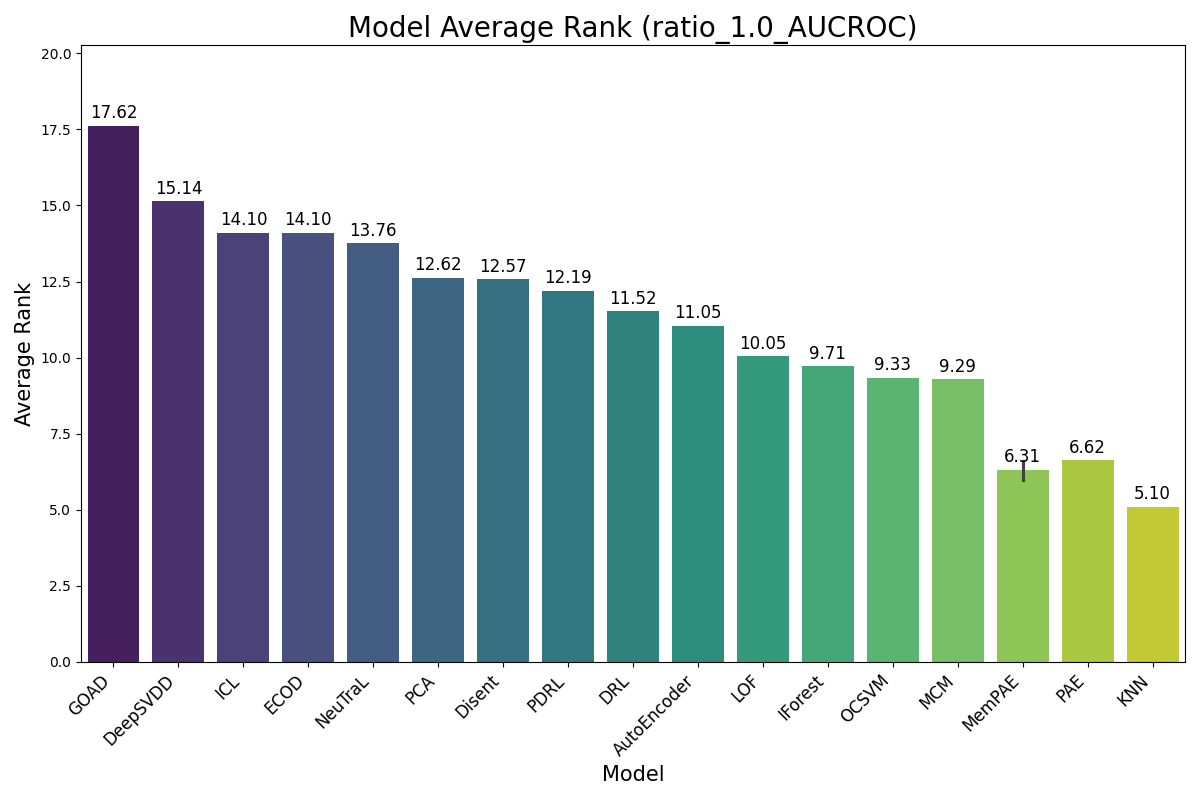
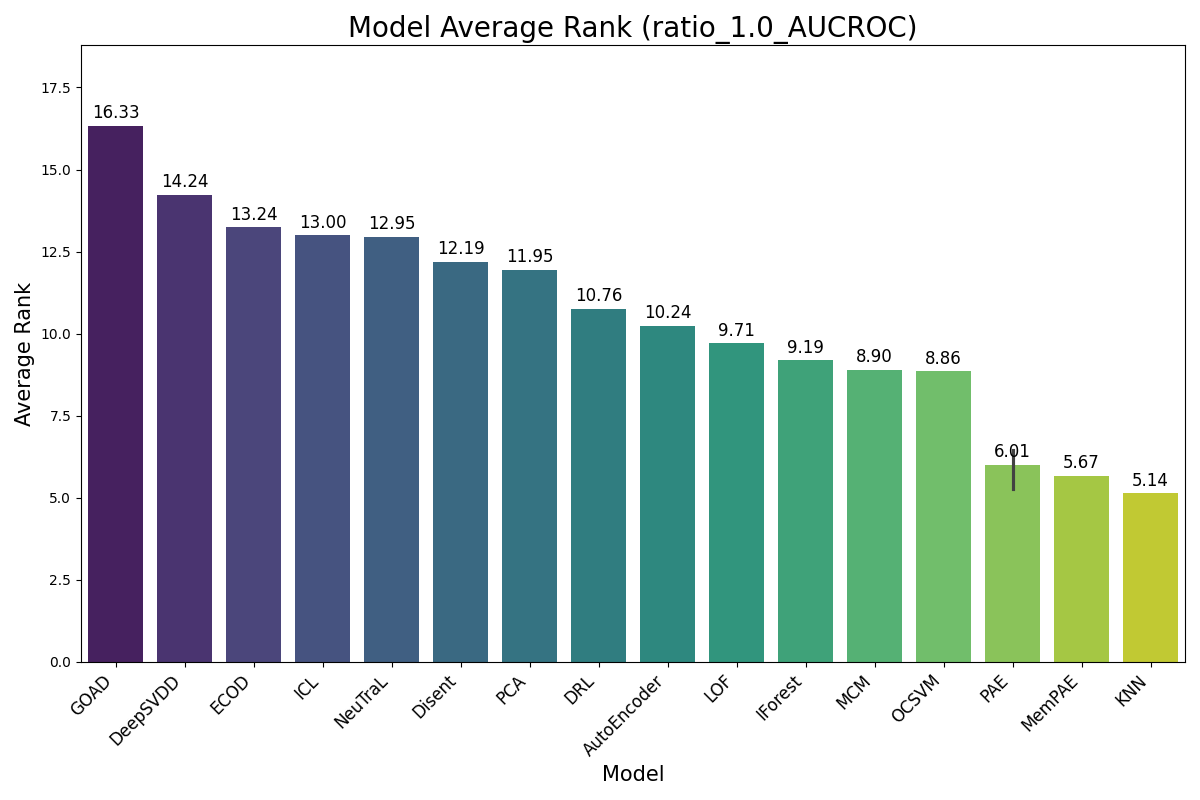
temp

diff --git a/summary.py b/summary.py
@@ -477,8 +477,12 @@ def main(args):
     data.sort()
 
     my_models = [
-        'PDRL-ws-pos_query+token-d64-lr0.001',
-        
+        # 'PDRL-ws-pos_query+token-d64-lr0.001',
+
+        'MCMPAE-ws-pos_query+token-d32-lr0.001',
+        'MCMPAE-ws-pos_query+token-d64-lr0.001',
+        'MCMPAE-ws-pos_query+token-d64-lr0.005',
+
         ##################################################################################
         'PAE-ws-pos_query+token-d64-lr0.001', # Final architecture for PAE
         # 'PAE-ws-d64-lr0.001', # Final architecture for PAE
@@ -487,9 +491,9 @@ def main(args):
         ##################################################################################
         # MemPAE with small memory Ablation
         'MemPAE-ws-pos_query+token-d64-lr0.001-t0.1', # this is final
-        'MemPAE-pos_query+token-L4-d64-lr0.001-t0.1',
-        'MemPAE-ws-d64-lr0.001-t0.1', # tmux 0
-        'MemPAE-d64-lr0.001-t0.1', # tmux 1
+        # 'MemPAE-pos_query+token-L4-d64-lr0.001-t0.1',
+        # 'MemPAE-ws-d64-lr0.001-t0.1', # tmux 0
+        # 'MemPAE-d64-lr0.001-t0.1', # tmux 1
 
         ##################################################################################        
         # 'MemPAE-ws-cross_attn-rin-pos_query+token-L4-d64-lr0.001', # possible
